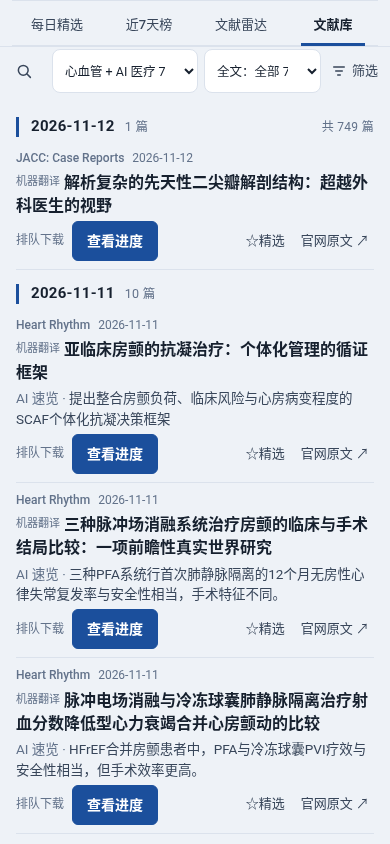
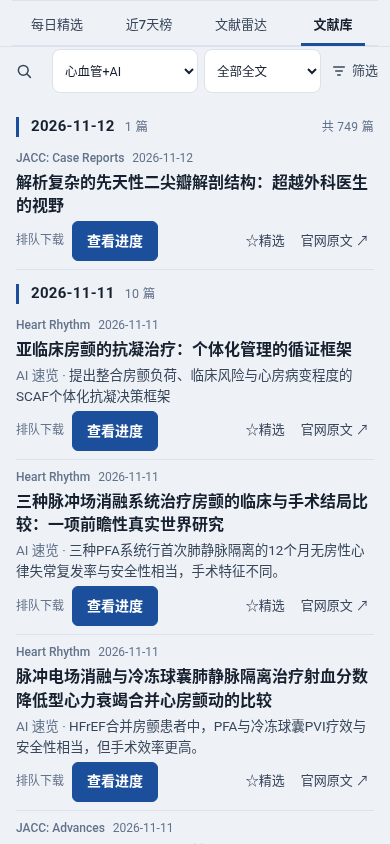
筛选行下拉去掉篇数并缩短名称；卡片去掉「机器翻译」小标（只在阅读台标一次）

diff --git a/app.js b/app.js
@@ -593,13 +593,13 @@
   // ---- Relevance lanes: keep the reader's default view on cardiology + medical AI ----
   const CARDIO_TIERS = new Set(['心血管旗舰顶刊', '心律失常与电生理', '心衰与重症心肌', '冠脉介入与结构', '心血管影像与表型', '脑血管与高血压', '心血管综合与其他', '定向专病与团队']);
   const LANES = [
-    { id: 'core', name: '心血管 + AI 医疗' },
-    { id: 'crossai', name: '心血管 × AI' },
-    { id: 'cardio', name: '心血管' },
-    { id: 'aimed', name: 'AI 医疗' },
-    { id: 'general', name: '综合医学' },
-    { id: 'aitech', name: 'AI 行业动态' },
-    { id: 'all', name: '全部' }
+    { id: 'core', name: '心血管 + AI 医疗', short: '心血管+AI' },
+    { id: 'crossai', name: '心血管 × AI', short: '心血管×AI' },
+    { id: 'cardio', name: '心血管', short: '心血管' },
+    { id: 'aimed', name: 'AI 医疗', short: 'AI 医疗' },
+    { id: 'general', name: '综合医学', short: '综合医学' },
+    { id: 'aitech', name: 'AI 行业动态', short: 'AI 行业' },
+    { id: 'all', name: '全部', short: '全部领域' }
   ];
   const AI_RE = /artificial intelligence|machine learning|deep learning|neural network|language model|\bLLMs?\b|\bAI\b|foundation model|generative (?:AI|model)|ChatGPT|\bGPT-?\d|transformer|federated learning|convolutional|natural language processing|computer[- ]aided|radiomics/i;
   const CARDIO_RE = /\bcardi[a-z]*|\bheart\b|atrial|ventric|coronary|myocard|arrhythm|\bECG\b|\bEKG\b|electrocardio|aort|hypertens|stroke|vascular|angio|valv|thrombo|anticoag|lipoprotein|cholesterol|statin|pacemaker|defibrill|tachycardia|fibrillation/i;
@@ -1237,7 +1237,7 @@
     const active = state.ftFilter || '';
     el.hidden = false;
     el.innerHTML = '<select class="range-select ft-select" data-ft-select aria-label="全文状态（各档篇数按当前领域、时间与搜索统计）">' + FT_FILTERS.map(([v, n]) =>
-      `<option value="${v}"${active === v ? ' selected' : ''}>全文：${n} ${counts[v]}</option>`).join('') + '</select>';
+      `<option value="${v}" data-count="${counts[v]}"${active === v ? ' selected' : ''}>${v === '' ? '全部全文' : n}</option>`).join('') + '</select>';
   }
   function renderLaneBar() {
     const el = $('#laneBar');
@@ -1263,7 +1263,7 @@
       if (paperCrossAI(p)) counts.crossai++;
     }
     el.hidden = false;
-    el.innerHTML = '<span class="lane-label">领域</span>' + '<select class="lane-select" data-lane-select aria-label="领域">' + LANES.map(l => `<option value="${l.id}"${state.lane === l.id ? ' selected' : ''}>${esc(l.name)} ${counts[l.id]}</option>`).join('') + '</select>';
+    el.innerHTML = '<span class="lane-label">领域</span>' + '<select class="lane-select" data-lane-select aria-label="领域">' + LANES.map(l => `<option value="${l.id}" data-count="${counts[l.id]}"${state.lane === l.id ? ' selected' : ''}>${esc(l.short || l.name)}</option>`).join('') + '</select>';
   }
 
   // 每日精选 opens on the newest day; earlier days are one tap away instead of a long scroll.
@@ -1859,9 +1859,8 @@
     // Everything else (impact factor, study type, tags, abstract, evidence limits, second links) lives in the reader.
     const machineZh = !p.hasDraft ? (qlc?.title_zh || p.titleZh || '') : '';
     const zhHtml = titleZh || (machineZh ? esc(machineZh) : '');
-    const zhLabel = titleZh ? '' : machineZh ? '<span class="content-label" title="机器翻译，未经人工核对">机器翻译</span>' : '';
     const titleBlock = zhHtml
-      ? `<h3 class="article-title article-title-zh${titleZh ? '' : ' ql-title'}"><button class="title-open" data-action="open-drawer" data-paper-id="${esc(p.id)}">${zhLabel}${zhHtml}</button></h3>`
+      ? `<h3 class="article-title article-title-zh${titleZh ? '' : ' ql-title'}"><button class="title-open" data-action="open-drawer" data-paper-id="${esc(p.id)}">${zhHtml}</button></h3>`
       : `<h3 class="article-title"><button class="title-open" data-action="open-drawer" data-paper-id="${esc(p.id)}">${titleEn}</button></h3>`;
 
     // Two or three lines of the reviewed Chinese guide, or the AI quick-look line, when there is one.

diff --git a/src/app/02-lanes.js b/src/app/02-lanes.js
@@ -2,13 +2,13 @@
   // ---- Relevance lanes: keep the reader's default view on cardiology + medical AI ----
   const CARDIO_TIERS = new Set(['心血管旗舰顶刊', '心律失常与电生理', '心衰与重症心肌', '冠脉介入与结构', '心血管影像与表型', '脑血管与高血压', '心血管综合与其他', '定向专病与团队']);
   const LANES = [
-    { id: 'core', name: '心血管 + AI 医疗' },
-    { id: 'crossai', name: '心血管 × AI' },
-    { id: 'cardio', name: '心血管' },
-    { id: 'aimed', name: 'AI 医疗' },
-    { id: 'general', name: '综合医学' },
-    { id: 'aitech', name: 'AI 行业动态' },
-    { id: 'all', name: '全部' }
+    { id: 'core', name: '心血管 + AI 医疗', short: '心血管+AI' },
+    { id: 'crossai', name: '心血管 × AI', short: '心血管×AI' },
+    { id: 'cardio', name: '心血管', short: '心血管' },
+    { id: 'aimed', name: 'AI 医疗', short: 'AI 医疗' },
+    { id: 'general', name: '综合医学', short: '综合医学' },
+    { id: 'aitech', name: 'AI 行业动态', short: 'AI 行业' },
+    { id: 'all', name: '全部', short: '全部领域' }
   ];
   const AI_RE = /artificial intelligence|machine learning|deep learning|neural network|language model|\bLLMs?\b|\bAI\b|foundation model|generative (?:AI|model)|ChatGPT|\bGPT-?\d|transformer|federated learning|convolutional|natural language processing|computer[- ]aided|radiomics/i;
   const CARDIO_RE = /\bcardi[a-z]*|\bheart\b|atrial|ventric|coronary|myocard|arrhythm|\bECG\b|\bEKG\b|electrocardio|aort|hypertens|stroke|vascular|angio|valv|thrombo|anticoag|lipoprotein|cholesterol|statin|pacemaker|defibrill|tachycardia|fibrillation/i;

diff --git a/src/app/04-filters.js b/src/app/04-filters.js
@@ -143,7 +143,7 @@
     const active = state.ftFilter || '';
     el.hidden = false;
     el.innerHTML = '<select class="range-select ft-select" data-ft-select aria-label="全文状态（各档篇数按当前领域、时间与搜索统计）">' + FT_FILTERS.map(([v, n]) =>
-      `<option value="${v}"${active === v ? ' selected' : ''}>全文：${n} ${counts[v]}</option>`).join('') + '</select>';
+      `<option value="${v}" data-count="${counts[v]}"${active === v ? ' selected' : ''}>${v === '' ? '全部全文' : n}</option>`).join('') + '</select>';
   }
   function renderLaneBar() {
     const el = $('#laneBar');
@@ -169,7 +169,7 @@
       if (paperCrossAI(p)) counts.crossai++;
     }
     el.hidden = false;
-    el.innerHTML = '<span class="lane-label">领域</span>' + '<select class="lane-select" data-lane-select aria-label="领域">' + LANES.map(l => `<option value="${l.id}"${state.lane === l.id ? ' selected' : ''}>${esc(l.name)} ${counts[l.id]}</option>`).join('') + '</select>';
+    el.innerHTML = '<span class="lane-label">领域</span>' + '<select class="lane-select" data-lane-select aria-label="领域">' + LANES.map(l => `<option value="${l.id}" data-count="${counts[l.id]}"${state.lane === l.id ? ' selected' : ''}>${esc(l.short || l.name)}</option>`).join('') + '</select>';
   }
 
   // 每日精选 opens on the newest day; earlier days are one tap away instead of a long scroll.

diff --git a/src/app/05-list.js b/src/app/05-list.js
@@ -14,9 +14,8 @@
     // Everything else (impact factor, study type, tags, abstract, evidence limits, second links) lives in the reader.
     const machineZh = !p.hasDraft ? (qlc?.title_zh || p.titleZh || '') : '';
     const zhHtml = titleZh || (machineZh ? esc(machineZh) : '');
-    const zhLabel = titleZh ? '' : machineZh ? '<span class="content-label" title="机器翻译，未经人工核对">机器翻译</span>' : '';
     const titleBlock = zhHtml
-      ? `<h3 class="article-title article-title-zh${titleZh ? '' : ' ql-title'}"><button class="title-open" data-action="open-drawer" data-paper-id="${esc(p.id)}">${zhLabel}${zhHtml}</button></h3>`
+      ? `<h3 class="article-title article-title-zh${titleZh ? '' : ' ql-title'}"><button class="title-open" data-action="open-drawer" data-paper-id="${esc(p.id)}">${zhHtml}</button></h3>`
       : `<h3 class="article-title"><button class="title-open" data-action="open-drawer" data-paper-id="${esc(p.id)}">${titleEn}</button></h3>`;
 
     // Two or three lines of the reviewed Chinese guide, or the AI quick-look line, when there is one.

diff --git a/scripts/test_mobile_library_ui.py b/scripts/test_mobile_library_ui.py
@@ -57,6 +57,8 @@ def main():
                 check(cards.count() >= 3 and all((cards.nth(i).bounding_box()['y'] + cards.nth(i).bounding_box()['height']) <= 844 for i in range(3)) if phone else True, label + ': three full cards fit the first screen')
                 check(page.locator('.article-card .btn-primary').count() <= cards.count(), label + ': at most one solid button per card')
                 check(page.evaluate("[...document.querySelectorAll('.article-card')].every(c=>c.querySelectorAll('.btn-primary').length<=1)"), label + ': each card has one solid button at most')
+                check(not any(ch.isdigit() for ch in page.locator('#laneBar .lane-select').inner_text() + ft.inner_text()), label + ': dropdown names carry no counts')
+                check(page.evaluate("[...document.querySelectorAll('#laneBar .lane-select, #ftBar select')].every(s=>{const c=document.createElement('canvas').getContext('2d');const cs=getComputedStyle(s);c.font=cs.fontSize+' '+cs.fontFamily;const w=c.measureText(s.options[s.selectedIndex].text).width;return w+parseFloat(cs.paddingLeft)+parseFloat(cs.paddingRight)<=s.clientWidth})"), label + ': selected dropdown text is not truncated')
                 lane = page.locator('#laneBar .lane-select')
                 lane.select_option('all')
                 check('lane=all' in page.url, label + ': lane select updates the URL state')
